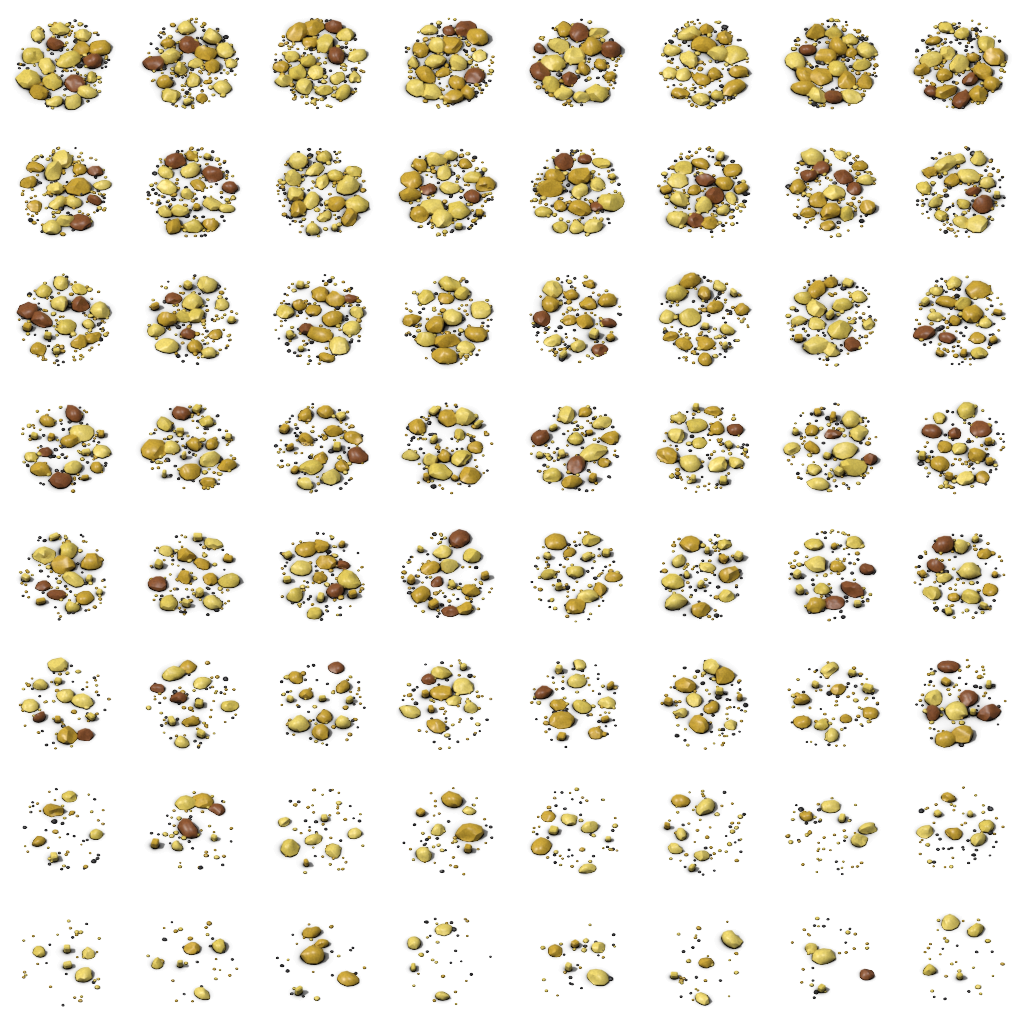
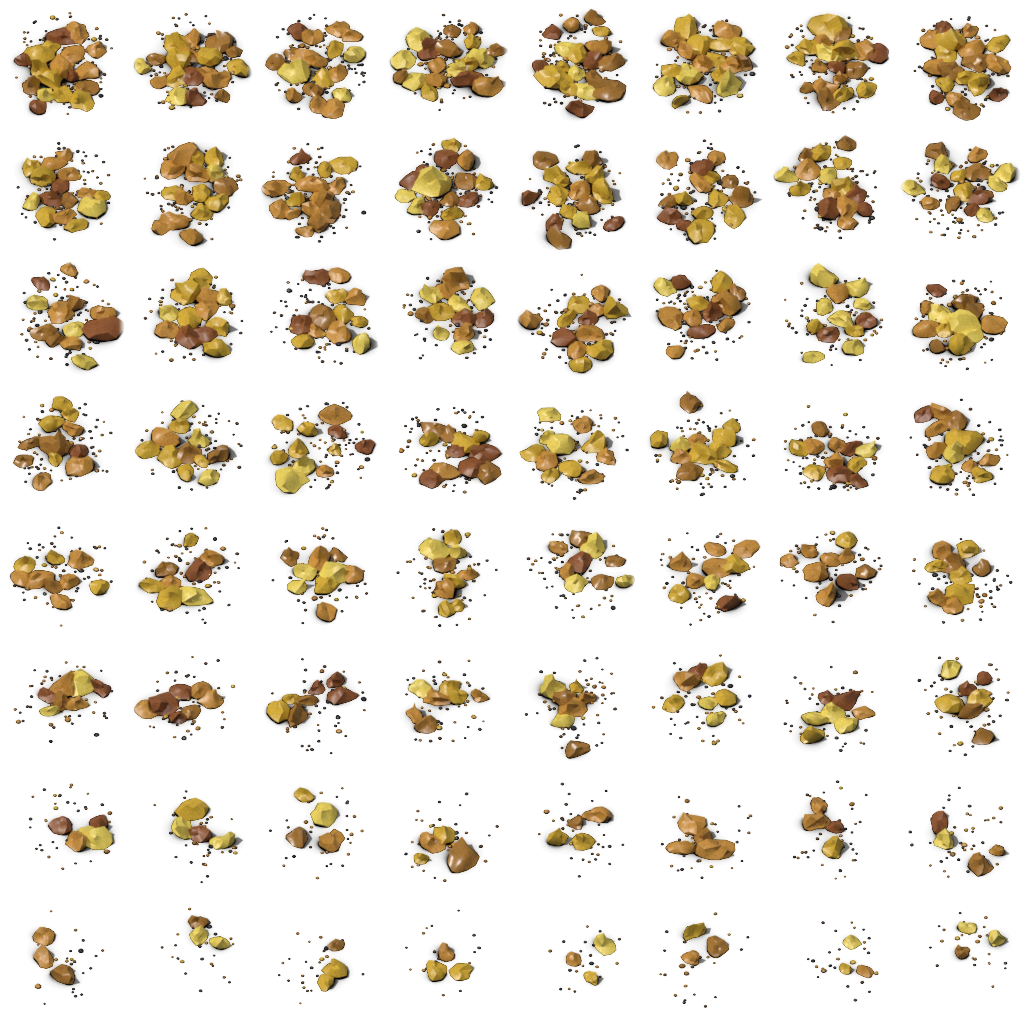
Monazite : forme refaite (direction M1, rognons anguleux en amas)
Retour du DC (30/10, vers 9 h) : « je n'aime pas du tout la forme de ces minerais :
[...] Minerai de monazite. Il faut les refaire. »

- gisement.py : options nouvelles, toutes facultatives (sans elles, aucun tirage de
  hasard en plus : les autres directions sont inchangées) : encoches concaves des
  roches (ROCHE_CREUX), pièces en AMAS (amas, amas_etendue, amas_serre) avec tapis de
  grains autour des amas, gros morceaux (gros, gros_coins), éclats en coin (coins).
- directions.py : M1 (retenue), M2, M3 (essais) ; diagnostic de Z3 en 5 points.
- feuille.py : effet éteint là où la hr est presque transparente (alpha < 0,05).
- graphics/ressources/monazite : feuille M1 à 128 échantillons ; check_gisement
  7 OK, mutants 10/10 refusés ; couverture 0,337 -> 0,057 (vanilla 0,316 -> 0,055).
- world.lua : commentaire de la feuille seulement (même nom, même dossier).

Choix provisoire, sans verdict du DC.

diff --git a/tools/render/pieces/ressources/gisement.py b/tools/render/pieces/ressources/gisement.py
@@ -60,8 +60,17 @@ def _transforme(verts, rx, rz, tx, ty, tz):
     return out
 
 
-def roche(rng, taille, aplat=0.55, n_coupes=3, cassure=(0.55, 0.85)):
-    """Roche facettée : icosphère (2 subdivisions) bosselée, aplatie, fond à plat. Renvoie (sommets, faces)."""
+def roche(rng, taille, aplat=0.55, n_coupes=3, cassure=(0.55, 0.85), creux=0, creux_prof=(0.22, 0.42)):
+    """Roche facettée : icosphère (2 subdivisions) bosselée, aplatie, fond à plat. Renvoie (sommets, faces).
+
+    creux (lot design-minerai-monazite, 30/10 ; 0 par défaut = roche d'avant, AUCUN tirage de hasard en plus) : nombre
+    d'ENCOCHES (creux concaves) : une roche vanilla (fer, cuivre, pierre) a des rentrants et des arêtes, pas la
+    silhouette convexe d'un galet."""
+    encoches = []
+    for _ in range(creux):
+        ex, ey, ez = rng.uniform(-1, 1), rng.uniform(-1, 1), rng.uniform(-0.1, 0.9)
+        n = math.sqrt(ex * ex + ey * ey + ez * ez) or 1.0
+        encoches.append((ex / n, ey / n, ez / n, math.cos(math.radians(rng.uniform(28, 46))), rng.uniform(*creux_prof)))
     bm = bmesh.new()
     bmesh.ops.create_icosphere(bm, subdivisions=2, radius=1.0)
     sx = taille * rng.uniform(0.8, 1.2)
@@ -78,6 +87,11 @@ def roche(rng, taille, aplat=0.55, n_coupes=3, cassure=(0.55, 0.85)):
             p = (v.co.x * ax + v.co.y * ay + v.co.z * az) / n
             if p > d:
                 k *= d / p
+        for ex, ey, ez, c0, prof in encoches:
+            t = v.co.x * ex + v.co.y * ey + v.co.z * ez
+            if t > c0:
+                u = (t - c0) / (1.0 - c0)
+                k *= 1.0 - prof * u * u * (3 - 2 * u)
         x, y, z = v.co.x * k * sx, v.co.y * k * sy, v.co.z * k * sz
         z = max(z, -0.15 * sz)
         verts.append((x, y, z + 0.15 * sz))
@@ -130,6 +144,34 @@ def bloc(rng, taille, haut):
     return verts, faces
 
 
+def coin(rng, taille, haut):
+    """Éclat EN COIN (lot design-minerai-monazite, 30/10 : la monazite cristallise en prismes en coin) : base
+    polygonale irrégulière à 5 ou 6 côtés, dessus plus étroit et INCLINÉ (une arête haute, l'autre basse) ; biseau en
+    modificateur. Un éclat facetté, à arêtes franches, ni galet rond ni cube."""
+    nb = rng.randint(5, 6)
+    a0 = rng.uniform(0, 2 * math.pi)
+    base = []
+    for i in range(nb):
+        a = a0 + 2 * math.pi * i / nb + rng.uniform(-0.35, 0.35)
+        r = 0.5 * taille * rng.uniform(0.62, 1.08)
+        base.append((r * math.cos(a), 0.8 * r * math.sin(a)))
+    k = rng.uniform(0.45, 0.72)
+    ox, oy = rng.uniform(-0.12, 0.12) * taille, rng.uniform(-0.12, 0.12) * taille
+    pa = rng.uniform(0, 2 * math.pi)
+    dx, dy = math.cos(pa), math.sin(pa)
+    bas = rng.uniform(0.25, 0.5)
+    verts = [(x, y, 0.0) for x, y in base]
+    for x, y in base:
+        xt, yt = x * k + ox, y * k + oy
+        s_ = (xt * dx + yt * dy) / (0.5 * taille) * 0.5 + 0.5
+        verts.append((xt, yt, haut * (bas + (1 - bas) * max(0.0, min(1.0, s_))) * rng.uniform(0.92, 1.06)))
+    faces = [list(range(nb - 1, -1, -1)), list(range(nb, 2 * nb))]
+    for i in range(nb):
+        j = (i + 1) % nb
+        faces.append([i, j, nb + j, nb + i])
+    return verts, faces
+
+
 # ------------------------------------------------------------------------------------------------
 # Placement
 # ------------------------------------------------------------------------------------------------
@@ -142,6 +184,23 @@ def _places(rng, n, rayon, ecart, deja):
         a = rng.uniform(0, 2 * math.pi)
         r = rayon * math.sqrt(rng.random())
         x, y = r * math.cos(a), r * math.sin(a)
+        if all((x - px) ** 2 + (y - py) ** 2 >= ecart ** 2 for px, py in deja + out):
+            out.append((x, y))
+    return out
+
+
+def _places_amas(rng, n, centres, etendue, ecart, deja):
+    """n positions groupées en AMAS (lot design-minerai-monazite) : chacune près d'un des centres (écart gaussien
+    `etendue`), à `ecart` au moins des autres ; les pièces vanilla se touchent et laissent des trous, au lieu d'un
+    semis régulier dans un disque."""
+    out = []
+    essais = 0
+    while len(out) < n and essais < 600:
+        essais += 1
+        cx, cy = centres[rng.randrange(len(centres))]
+        x, y = cx + rng.gauss(0, etendue), cy + rng.gauss(0, etendue)
+        if x * x + y * y > 0.78 ** 2:
+            continue
         if all((x - px) ** 2 + (y - py) ** 2 >= ecart ** 2 for px, py in deja + out):
             out.append((x, y))
     return out
@@ -173,24 +232,57 @@ def cellule(S, C, mats, lave, d, cle, r, c, stade, rng, icone=False):
         return o
 
     tag = "%s_%d_%d" % (cle, r, c)
+    # AMAS (lot design-minerai-monazite ; seulement si la direction a « amas ») : centres tirés une fois par cellule
+    amas = d.get("amas")
+    if amas:
+        n_c = max(1, _compte(amas, stade, 1.0, rng))
+        centres = _places(rng, n_c, rayon * 0.62, 0.30, []) or [(0.0, 0.0)]
+        etendue = d.get("amas_etendue", 0.16)
+        serre = d.get("amas_serre", 0.7)
+
+        def places(n, ray, ecart, deja):
+            return _places_amas(rng, n, centres, etendue, ecart * serre, deja)
+    else:
+        def places(n, ray, ecart, deja):
+            return _places(rng, n, ray, ecart, deja)
+    gros = d.get("gros")          # (comptes par stade, facteur de taille) : les premières pièces posées sont grosses
+    n_gros = _compte(gros[0], stade, 1.0, rng) if gros else 0
     # roches de pied / matrice
     n_roche = _compte(d["roches"], stade, e, rng) + (2 if icone else 0)
-    for i, (gx, gy) in enumerate(_places(rng, n_roche, rayon, 0.22, occupe)):
+    for i, (gx, gy) in enumerate(places(n_roche, rayon, 0.22, occupe)):
         occupe.append((gx, gy))
         t = rng.uniform(*d["roche_taille"]) * (1.25 if icone else 1.0)
+        if gros and i < n_gros:
+            t *= gros[1]
         v, f = roche(rng, t, aplat=D.ROCHE_APLAT.get(cle, 0.55), n_coupes=D.ROCHE_COUPES.get(cle, 3),
-                     cassure=D.ROCHE_CASSURE.get(cle, (0.55, 0.85)))
+                     cassure=D.ROCHE_CASSURE.get(cle, (0.55, 0.85)), creux=D.ROCHE_CREUX.get(cle, 0))
         pose(v, f, mats[rng.choice(d["roche_mats"])], gx, gy, "%s_roche%d" % (tag, i), lisse=D.ROCHE_LISSE.get(cle, 38))
+    # éclats en coin (lot design-minerai-monazite ; seulement si la direction a « coins »)
+    if d.get("coins"):
+        gros_c = d.get("gros_coins")    # comme « gros », pour les éclats en coin
+        n_gros_c = _compte(gros_c[0], stade, 1.0, rng) if gros_c else 0
+        n_coin = _compte(d["coins"], stade, e, rng) + (2 if icone else 0)
+        for i, (gx, gy) in enumerate(places(n_coin, rayon, 0.20, occupe)):
+            occupe.append((gx, gy))
+            t = rng.uniform(*d["coin_taille"]) * (1.2 if icone else 1.0)
+            if gros_c and i < n_gros_c:
+                t *= gros_c[1]
+            v, f = coin(rng, t, rng.uniform(*d["coin_haut"]) * (t / d["coin_taille"][1]) ** 0.5)
+            bx, by, _ = C.tile_to_blender(cx + gx, cy + gy)
+            vv = _transforme(v, rng.uniform(0.0, 0.30), rng.uniform(0, 2 * math.pi), bx, by, -0.012)
+            o = _objet("%s_coin%d" % (tag, i), vv, f, mats[rng.choice(d["coin_mats"])], S)
+            S.bevel(o, 0.010, 1)
+            objs.append(o)
     # blocs de métal
     n_bloc = _compte(d["blocs"], stade, e, rng) + (3 if icone and max(d["blocs"]) else 0)
-    for i, (gx, gy) in enumerate(_places(rng, n_bloc, rayon, 0.24, occupe)):
+    for i, (gx, gy) in enumerate(places(n_bloc, rayon, 0.24, occupe)):
         occupe.append((gx, gy))
         t = rng.uniform(*d["bloc_taille"]) * (1.2 if icone else 1.0)
         v, f = bloc(rng, t, rng.uniform(*d["bloc_haut"]))
         pose(v, f, mats[rng.choice(d["bloc_mats"])], gx, gy, "%s_bloc%d" % (tag, i), biseau=0.018)
     # touffes de lames (inclinées en éventail depuis un même pied)
     n_touffe = _compte(d["touffes"], stade, e, rng) + (2 if icone and max(d["touffes"]) else 0)
-    for i, (gx, gy) in enumerate(_places(rng, n_touffe, rayon * 0.9, 0.26, occupe)):
+    for i, (gx, gy) in enumerate(places(n_touffe, rayon * 0.9, 0.26, occupe)):
         occupe.append((gx, gy))
         n_l = rng.randint(*d["lames"])
         az0 = rng.uniform(0, 2 * math.pi)
@@ -225,7 +317,8 @@ def cellule(S, C, mats, lave, d, cle, r, c, stade, rng, icone=False):
             V.extend(vv)
             F.extend([[base + k for k in face] for face in f])
         n_g = _compte(d["grains"], stade, e, rng)
-        for gx, gy in _places(rng, n_g, rayon * 1.12, 0.05, []):
+        for gx, gy in (_places_amas(rng, n_g, centres, etendue * 1.6, 0.05, []) if amas
+                       else _places(rng, n_g, rayon * 1.12, 0.05, [])):
             v, f = grain(rng, rng.uniform(0.022, 0.045))
             ajoute(rng.choice(d["grain_mats"]), v, f, gx, gy)
         fins = d.get("fins", D.FINS)
@@ -233,6 +326,15 @@ def cellule(S, C, mats, lave, d, cle, r, c, stade, rng, icone=False):
             d = dict(d, fin_mats=d.get("fin_mats", D.FIN_MATS))
             n_f = _compte(fins, stade, 1.0, rng)
             for _ in range(n_f):
+                if amas:
+                    # tapis autour des amas (lot design-minerai-monazite) : une traînée irrégulière, pas un disque
+                    ax, ay = centres[rng.randrange(len(centres))]
+                    fx, fy = ax + rng.gauss(0, etendue * 1.9), ay + rng.gauss(0, etendue * 1.9)
+                    if fx * fx + fy * fy > 0.80 ** 2:
+                        continue
+                    v, f = grain(rng, rng.uniform(0.016, 0.026))
+                    ajoute(rng.choice(d["fin_mats"]), v, f, fx, fy)
+                    continue
                 a = rng.uniform(0, 2 * math.pi)
                 r = rayon * 1.15 * math.sqrt(rng.random())
                 v, f = grain(rng, rng.uniform(0.016, 0.026))
@@ -256,7 +358,8 @@ def cellule_icone(S, C, mats, d, cle, c, rng):
         a = rng.uniform(0, 2 * math.pi)
         gx, gy = 0.28 * math.cos(a), 0.22 * math.sin(a)
         v, f = roche(rng, rng.uniform(*ic.get("roche_taille", (0.24, 0.32))), aplat=ic.get("roche_aplat", 0.75),
-                     n_coupes=ic.get("roche_coupes", 7), cassure=ic.get("roche_cassure", (0.35, 0.7)))
+                     n_coupes=ic.get("roche_coupes", 7), cassure=ic.get("roche_cassure", (0.35, 0.7)),
+                     creux=ic.get("roche_creux", 0))
         bx, by, _ = C.tile_to_blender(cx + gx, cy + gy)
         vv = _transforme(v, 0.0, rng.uniform(0, 2 * math.pi), bx, by, 0.0)
         objs.append(_objet("%s_roche%d" % (tag, i), vv, f, mats[rng.choice(ic.get("roche_mats", d["roche_mats"]))],
@@ -283,6 +386,18 @@ def cellule_icone(S, C, mats, d, cle, c, rng):
         vv = _transforme(v, 0.0, rng.uniform(0, 2 * math.pi), bx, by, 0.0)
         o = _objet("%s_bloc%d" % (tag, j), vv, f, mats[rng.choice(ic["bloc_mats"])], S)
         S.bevel(o, 0.02, 1)
+        objs.append(o)
+    # éclats en coin (lot design-minerai-monazite) : seulement si ICONE en demande
+    for j in range(ic.get("coins", 0)):
+        a = rng.uniform(0, 2 * math.pi)
+        rr = 0.0 if j == 0 else 0.24
+        gx, gy = rr * math.cos(a), 0.8 * rr * math.sin(a)
+        t = rng.uniform(*ic["coin_taille"])
+        v, f = coin(rng, t, rng.uniform(*ic["coin_haut"]))
+        bx, by, _ = C.tile_to_blender(cx + gx, cy + gy)
+        vv = _transforme(v, rng.uniform(0.0, 0.25), rng.uniform(0, 2 * math.pi), bx, by, -0.015)
+        o = _objet("%s_coin%d" % (tag, j), vv, f, mats[rng.choice(ic["coin_mats"])], S)
+        S.bevel(o, 0.016, 1)
         objs.append(o)
     return objs
 

diff --git a/tools/render/pieces/ressources/directions.py b/tools/render/pieces/ressources/directions.py
@@ -568,14 +568,135 @@ ROCHE_APLAT["S2"], ROCHE_CASSURE["S2"] = ROCHE_APLAT["S1"], ROCHE_CASSURE["S1"]
 ICONE["S2"] = dict(ICONE["S1"], roche_mats=("blende_rubis", "quartz_gris"))
 EFFET["S2"] = dict(EFFET["S1"])
 
+# ------------------------------------------------------------------------------------------------
+# MONAZITE, FORME REFAITE (lot design-minerai-monazite, 30/10). Retour du DC (30/10, vers 9 h) : « je n'aime pas du tout
+# la forme de ces minerais : Blende, Cassitérite, Minerai d'ilménite, Minerai de monazite. Il faut les refaire. »
+# Pourquoi Z3 déplaît (feuille comparée aux hr vanilla, cadres 128 px, et capture en moteur du 25/10, zoom 4) :
+#   1. silhouette : galets CONVEXES, lisses et ronds (4 coupes, lissage 38°) ; une roche vanilla a des rentrants, des
+#      arêtes et un côté d'ombre franc ;
+#   2. taille : 20 à 30 pièces de taille presque égale par cadre ; la vanilla a 2 ou 3 gros morceaux, des moyens, des
+#      petits ;
+#   3. densité : un semis RÉGULIER qui remplit un disque parfait (cadre rond, écarts égaux) ; la vanilla fait des amas
+#      qui se touchent et laissent des trous ;
+#   4. lecture au zoom 1 : jaune pâle uniforme presque sans ombre propre, plus des confettis jaunes (grains et fins
+#      dorés) : « pop-corn », « lentilles » ou bonbons (galets brun-rouge lisses), pas un minerai ;
+#   5. ressemblance : par la taille et la forme, des cailloux de la pierre vanilla repeints en jaune.
+# Trois formes à bas échantillonnage, même palette miel-or (la teinte n'était pas en cause : la carte et la chaîne la
+# gardent), plus contrastée (moins de jaune paille, faces miel et brun résine, éclat résineux) :
+#   M1 : ROGNONS anguleux (roches à encoches, 7 coupes, peu lissées), en amas, un ou deux gros par cadre ;
+#   M2 : rognons de M1 moins nombreux d'où sortent des PRISMES courts et trapus (cristaux en coin dressés) ;
+#   M3 : ÉCLATS EN COIN (gisement.coin : base polygonale, dessus incliné, arêtes vives) en amas, quelques rognons.
+# Tapis : sable de magnétite brun-noir et grains miel épars (le « sable » sombre des minerais vanilla), plus de
+# confettis dorés.
+# ------------------------------------------------------------------------------------------------
+MAT.update({
+    # monazite résine : miel sombre (faces à l'ombre, brun résineux)
+    "monazite_resine": dict(color=(0.36, 0.17, 0.028), rough=0.30, met=0.0, grain=0.25, gscale=36.0, dirt=0.45),
+    # sable de magnétite brun (tapis : plus chaud et un peu plus clair que le sol de sables noirs)
+    "sable_brun": dict(color=(0.10, 0.060, 0.035), rough=0.9, met=0.0, grain=0.3, gscale=30.0, dirt=0.2),
+})
+ROCHE_CREUX = {}
+DIRECTIONS["M1"] = dict(
+    nom="rognons anguleux de monazite miel en amas",
+    touffes=(0, 0, 0, 0, 0, 0, 0, 0), lames=(0, 0),
+    lame_long=(0.0, 0.0), lame_larg=(0.0, 0.0), lame_ep=(0.0, 0.0), lame_incl=(0, 0), lame_mats=("monazite_or",),
+    roches=(13, 11, 9, 8, 7, 5, 3, 2), roche_taille=(0.10, 0.165),
+    roche_mats=("monazite_or", "monazite_or", "monazite_miel", "monazite_resine", "monazite_soufre", "monazite_miel",
+                "monazite_brun"),
+    blocs=(0, 0, 0, 0, 0, 0, 0, 0), bloc_taille=(0.1, 0.1), bloc_haut=(0.1, 0.1), bloc_mats=("monazite_or",),
+    grains=(14, 12, 10, 9, 7, 6, 4, 2), grain_mats=("monazite_miel", "monazite_resine", "magnetite", "monazite_or"),
+    fins=(170, 150, 128, 108, 88, 70, 48, 28),
+    fin_mats=("sable_brun", "magnetite", "sable_brun", "monazite_resine", "sable_noir", "monazite_miel"),
+    amas=(3, 3, 3, 3, 2, 2, 2, 1), amas_etendue=0.17, amas_serre=0.72,
+    gros=((2, 2, 2, 1, 1, 1, 1, 0), 1.55),
+    rayon=0.62,
+    effet="eclats",
+)
+CALIB["M1"] = {"SKY_GLOSSY_FACTOR": 3.0}
+ROCHE_COUPES["M1"], ROCHE_LISSE["M1"] = 7, 24
+ROCHE_APLAT["M1"], ROCHE_CASSURE["M1"] = 0.62, (0.40, 0.75)
+ROCHE_CREUX["M1"] = 3
+ICONE["M1"] = dict(lames=(0, 0), roches=(4, 5), roche_taille=(0.19, 0.26), roche_coupes=7, roche_cassure=(0.40, 0.75),
+                   roche_aplat=0.7, roche_creux=3,
+                   roche_mats=("monazite_or", "monazite_miel", "monazite_resine", "monazite_or", "monazite_soufre"))
+# Production (128 éch.) : check_gisement refusait UN pixel d'effet hors du minerai (bord d'un rognon) avec le seuil de Z3
+# (0,45 à 0,80) : seuil 0,48 à 0,82 (part du minerai allumée 56 %, Z3 : 62 %).
+EFFET["M1"] = dict(teinte=(1.0, 0.78, 0.25), seuil=(0.48, 0.82))
+
+DIRECTIONS["M2"] = dict(DIRECTIONS["M1"], nom="rognons de monazite hérissés de prismes en coin",
+                        roches=(9, 8, 7, 6, 5, 4, 2, 2),
+                        touffes=(4, 4, 3, 3, 2, 2, 1, 1), lames=(2, 4),
+                        lame_long=(0.10, 0.17), lame_larg=(0.085, 0.125), lame_ep=(0.06, 0.09), lame_incl=(12, 48),
+                        lame_mats=("monazite_or", "monazite_soufre", "monazite_miel", "monazite_or"),
+                        roche_mats=("monazite_miel", "monazite_resine", "monazite_or", "monazite_brun", "monazite_miel"))
+CALIB["M2"] = dict(CALIB["M1"])
+ROCHE_COUPES["M2"], ROCHE_LISSE["M2"] = 7, 24
+ROCHE_APLAT["M2"], ROCHE_CASSURE["M2"] = 0.62, (0.40, 0.75)
+ROCHE_CREUX["M2"] = 3
+ICONE["M2"] = dict(lames=(4, 6), echelle=1.7, roches=(3, 3), roche_taille=(0.18, 0.24), roche_coupes=7,
+                   roche_cassure=(0.40, 0.75), roche_aplat=0.7, roche_creux=3,
+                   roche_mats=("monazite_miel", "monazite_resine", "monazite_or"),
+                   lame_mats=("monazite_or", "monazite_soufre", "monazite_miel"))
+EFFET["M2"] = dict(EFFET["M1"])
+
+DIRECTIONS["M3"] = dict(DIRECTIONS["M1"], nom="éclats en coin de monazite miel en amas",
+                        roches=(3, 3, 2, 2, 2, 1, 1, 0), roche_taille=(0.09, 0.14),
+                        roche_mats=("monazite_resine", "monazite_brun", "monazite_miel"),
+                        coins=(12, 10, 9, 8, 6, 5, 3, 2), coin_taille=(0.17, 0.27), coin_haut=(0.07, 0.12),
+                        coin_mats=("monazite_or", "monazite_or", "monazite_miel", "monazite_soufre", "monazite_resine",
+                                   "monazite_miel"),
+                        gros=None, gros_coins=((2, 2, 2, 1, 1, 1, 1, 0), 1.45))
+CALIB["M3"] = dict(CALIB["M1"])
+ROCHE_COUPES["M3"], ROCHE_LISSE["M3"] = 7, 24
+ROCHE_APLAT["M3"], ROCHE_CASSURE["M3"] = 0.62, (0.40, 0.75)
+ROCHE_CREUX["M3"] = 2
+# Ronde 2 (essai à 12 échantillons, 9 h 27) : formes et amas justes, mais pièces DEUX FOIS trop petites et plates
+# (couverture du stade 1 : M1 0,138, M2 0,159, M3 0,114 contre 0,316 en vanilla ; diamètre d'un rognon 17 px hr contre
+# 25 à 35 px pour le fer) : tailles × 1,45, rognons plus hauts (aplat 0,78), prismes et coins plus grands.
+DIRECTIONS["M1"].update(roche_taille=(0.15, 0.235))
+DIRECTIONS["M2"].update(roche_taille=(0.15, 0.235), touffes=(3, 3, 3, 2, 2, 2, 1, 1),
+                        lame_long=(0.15, 0.25), lame_larg=(0.11, 0.16), lame_ep=(0.08, 0.12))
+DIRECTIONS["M3"].update(roche_taille=(0.13, 0.20), coin_taille=(0.25, 0.38), coin_haut=(0.10, 0.17))
+for _k in ("M1", "M2", "M3"):
+    ROCHE_APLAT[_k] = 0.78
+# Ronde 3 (après l'essai à 12 échantillons de 9 h 43) : M1 RETENUE (rognons anguleux en amas : la silhouette, les tailles
+# et les trous de la vanilla ; M2 : les prismes se lisent en bâtonnets, « frites » ; M3 : les coins, petits, se lisent en
+# miettes ou en dés). Couverture de M1 0,205 → 0,036 contre 0,316 → 0,055 : rognons × 1,12 et comptes × 1,25 environ ;
+# facettes trop « low poly » à 24° : lissage 34° (les plans de cassure restent vifs) ; icône : 4 ou 5 gros rognons
+# plus sombres (miel et résine), comme les 4 gros morceaux des icônes vanilla.
+DIRECTIONS["M1"].update(roche_taille=(0.165, 0.26), roches=(16, 14, 11, 10, 8, 7, 4, 3),
+                        grains=(18, 15, 12, 11, 9, 7, 5, 3))
+ROCHE_LISSE["M1"] = 34
+ICONE["M1"] = dict(ICONE["M1"], roches=(4, 5), roche_taille=(0.24, 0.30), roche_aplat=0.8,
+                   roche_mats=("monazite_or", "monazite_miel", "monazite_resine", "monazite_miel", "monazite_or"))
+# Ronde 4 (essai 12 éch. de 9 h 46 : couverture 0,264 / 0,229 / 0,206 / 0,181 / 0,144 / 0,130 / 0,105 / 0,049, stade 1
+# hors tolérance de 0,002) : rognons encore plats (lus « éclats de tuile ») et un gros rognon par cadre trop gros (× 1,55,
+# 0,8 tuile) : rognons plus hauts et moins coupés (aplat 0,9, cassure 0,45 à 0,80), gros × 1,3, comptes des stades 1 à 5
+# relevés ; icône : 4 gros rognons qui remplissent le cadre.
+DIRECTIONS["M1"].update(roches=(20, 17, 13, 11, 9, 7, 4, 3), gros=((2, 2, 2, 1, 1, 1, 1, 0), 1.3))
+ROCHE_APLAT["M1"], ROCHE_CASSURE["M1"] = 0.90, (0.45, 0.80)
+ICONE["M1"] = dict(ICONE["M1"], roches=(4, 4), roche_taille=(0.27, 0.33), roche_aplat=0.9, roche_cassure=(0.45, 0.80))
+# Ronde 5 (essai 12 éch. de 9 h 53 : couverture à 0,015 au plus de la vanilla à tous les stades) : les stades riches
+# font UN tas serré (« tas de pommes de terre ») ; la vanilla garde des pièces distinctes et des jours : amas plus
+# nombreux et plus larges, écart minimal plein (0,95), comptes des stades 1 à 3 un peu réduits.
+DIRECTIONS["M1"].update(roches=(18, 15, 12, 11, 9, 7, 4, 3), amas=(4, 4, 3, 3, 3, 2, 2, 1), amas_etendue=0.21,
+                        amas_serre=0.95)
+ICONE["M3"] = dict(lames=(0, 0), roches=(1, 2), roche_taille=(0.14, 0.18), roche_coupes=7, roche_cassure=(0.40, 0.75),
+                   roche_aplat=0.7, roche_creux=2, roche_mats=("monazite_resine", "monazite_miel"),
+                   coins=4, coin_taille=(0.30, 0.40), coin_haut=(0.14, 0.20),
+                   coin_mats=("monazite_or", "monazite_miel", "monazite_soufre", "monazite_or"))
+EFFET["M3"] = dict(EFFET["M1"])
+
 # Échelle des comptes (réglée par mesure de la couverture, feuille.py --couverture) : multiplie touffes, roches,
 # blocs et grains d'une direction. 1,0 tant que rien n'est mesuré.
 ECHELLE = {"A": 1.0, "B": 1.0, "C": 1.0, "A2": 1.0, "A3": 1.0, "A4": 1.0, "I1": 1.45, "I2": 1.45, "I3": 1.45,
-           "Z1": 1.6, "Z2": 1.6, "Z3": 1.6, "G1": 1.45, "K1": 1.3, "I2S": 1.45, "C1": 1.6, "B1": 1.6, "S1": 1.45, "G2": 1.45, "S2": 1.45}
+           "Z1": 1.6, "Z2": 1.6, "Z3": 1.6, "G1": 1.45, "K1": 1.3, "I2S": 1.45, "C1": 1.6, "B1": 1.6, "S1": 1.45, "G2": 1.45, "S2": 1.45,
+           "M1": 1.0, "M2": 1.0, "M3": 1.0}
 
 # Graine de chaque direction (hasard local déterministe). A2 à A4 gardent la graine de A : mêmes positions.
 GRAINE = {"A": 5101, "B": 5202, "C": 5303, "A2": 5101, "A3": 5101, "A4": 5101, "I1": 6111, "I2": 6111, "I3": 6111,
-          "Z1": 6212, "Z2": 6212, "Z3": 6212, "G1": 6313, "K1": 6414, "I2S": 6111, "C1": 6515, "B1": 6616, "S1": 6717, "G2": 6313, "S2": 6717}
+          "Z1": 6212, "Z2": 6212, "Z3": 6212, "G1": 6313, "K1": 6414, "I2S": 6111, "C1": 6515, "B1": 6616, "S1": 6717, "G2": 6313, "S2": 6717,
+          "M1": 6818, "M2": 6818, "M3": 6818}
 
 # Grille de rendu : 8 variantes (colonnes) × 8 stades (lignes) + une ligne d'icônes (icône + 3 images d'objet).
 COLONNES = 8

diff --git a/tools/render/pieces/ressources/feuille.py b/tools/render/pieces/ressources/feuille.py
@@ -163,6 +163,10 @@ def post(cle, travail, sortie, nom, lignes=D.STADES + 1):
             if hre is not None:
                 hre[r * FRAME:(r + 1) * FRAME, c * FRAME:(c + 1) * FRAME] = bordure(recadre(effet_src, cx, cy))
         couv.append(round(float(np.mean(cv)), 4))
+    if hre is not None:
+        # (lot design-minerai-monazite, 30/10) un pixel d'effet sur une hr presque transparente (alpha < 0,05, fondu de
+        # bordure d'un rognon au bord du cadre) ne se voit pas et check_gisement le refuse « hors du minerai » : éteint.
+        hre[hr[..., 3] < 0.05] = 0.0
     os.makedirs(sortie, exist_ok=True)
     sums = {}
     sums["hr-%s.png" % nom] = P.write_png(P.floor_alpha(hr), os.path.join(sortie, "hr-%s.png" % nom))
